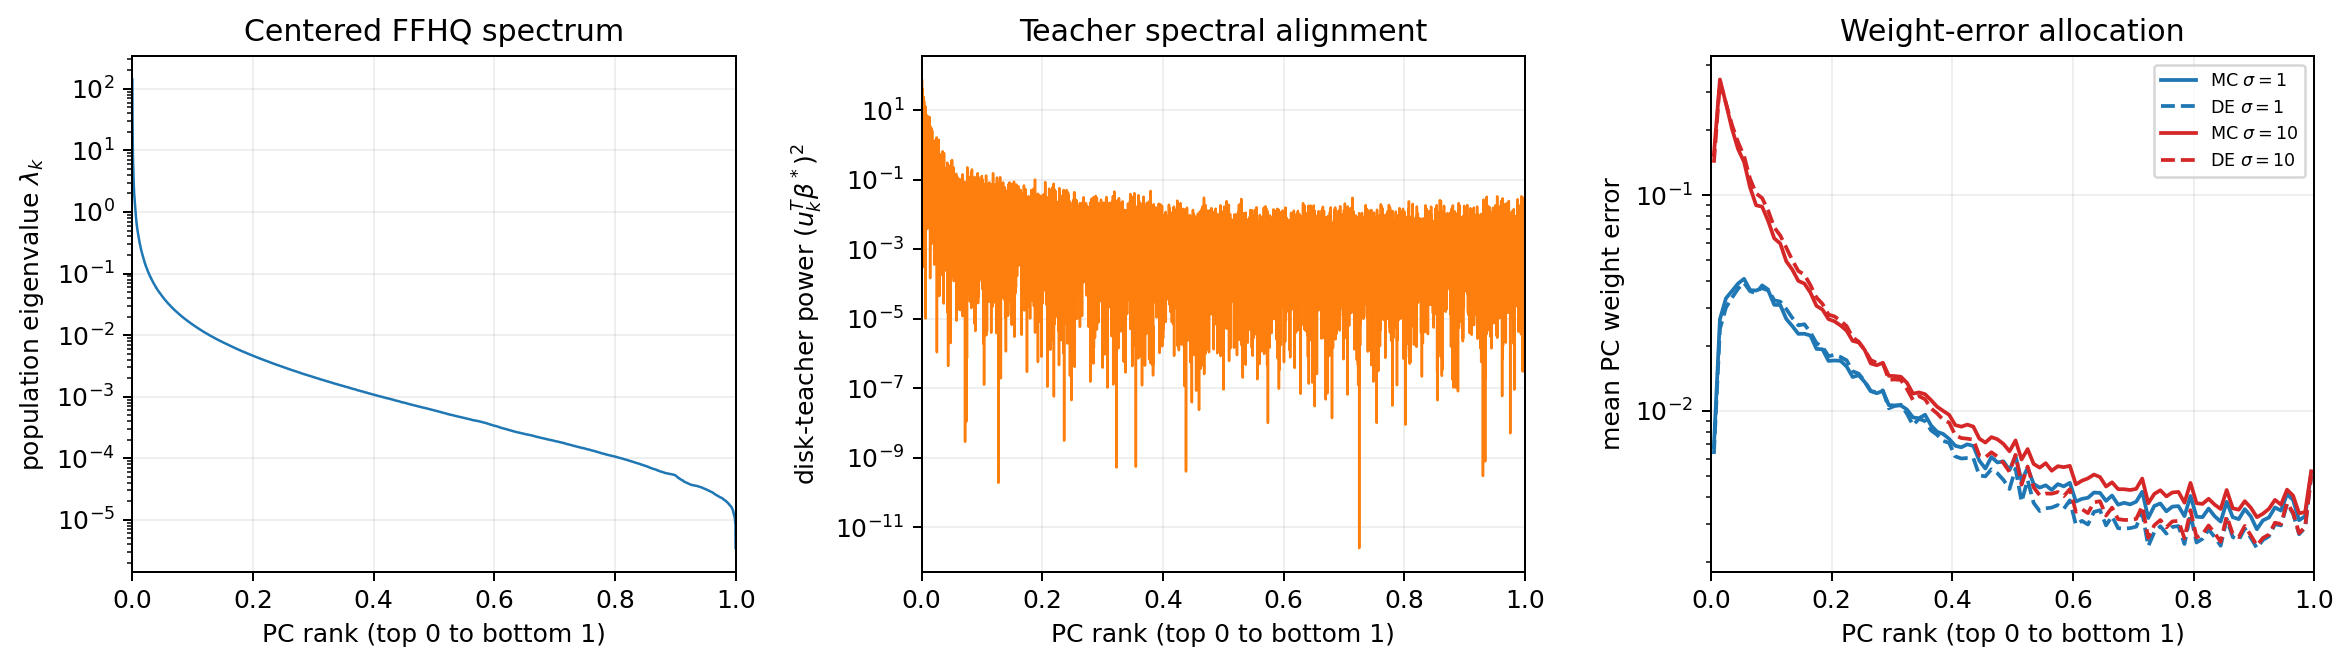
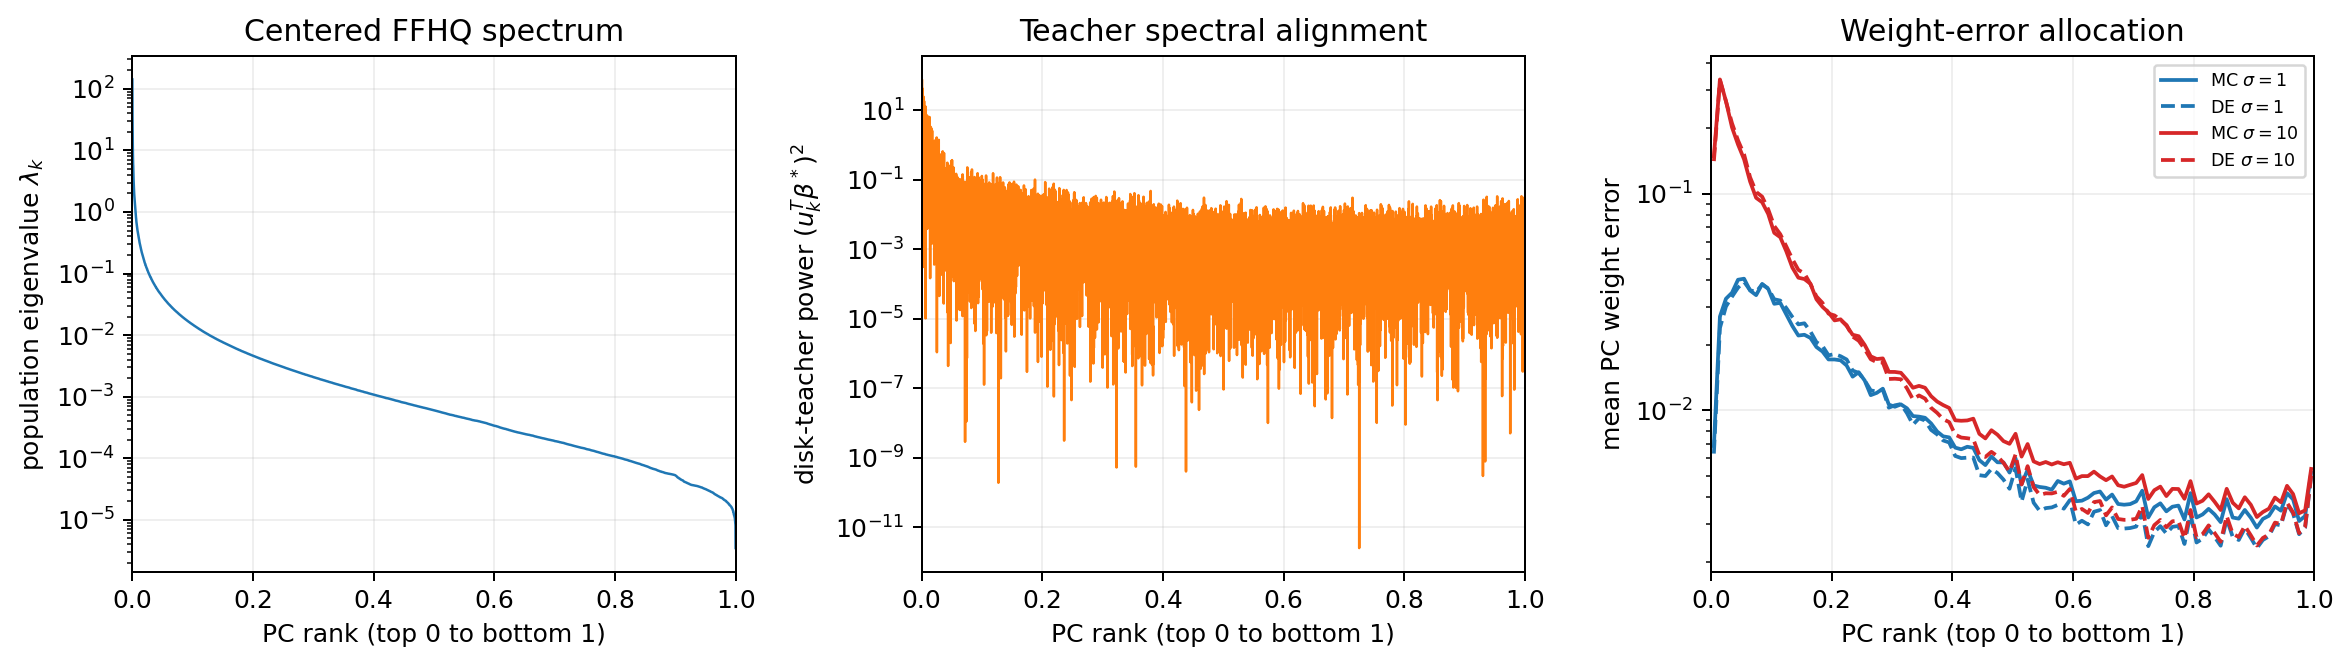
Densify FFHQ RidgeCV alpha sweep

Changed region(s): [[0.807, 0.5714, 0.9932, 0.812], [0.7449, 0.3008, 0.807, 0.5714], [0.6828, 0.2707, 0.7139, 0.3008]]

diff --git a/scripts/validate_ffhq_disk_teacher.py b/scripts/validate_ffhq_disk_teacher.py
@@ -6,7 +6,7 @@ This reproduces the natural-image linear-regression experiment from
 * 100 x 100 grayscale FFHQ images;
 * a binary radius-0.3 disk as the teacher weight;
 * a fitted intercept;
-* RidgeCV over scikit-learn alphas ``10**[-4, ..., 5]``.
+* RidgeCV over a dense log-spaced alpha grid from ``10**-4`` to ``10**5``.
 
 Scikit's objective uses ``X.T X + alpha I``. The RMT library uses
 ``X.T X + n lambda I``, so the final-refit conversion is ``lambda=alpha/n``.
@@ -391,7 +391,9 @@ def summarize_historical(
 def case_path(args: argparse.Namespace, sigma: float) -> Path:
     return CASE_DIR / (
         f'ffhq_disk_d{args.img_size ** 2}_n{args.n}_sigma{float_tag(sigma)}'
-        f'_trials{args.n_trials}_pop{args.population_size}_seed{args.seed}.npz')
+        f'_trials{args.n_trials}_pop{args.population_size}_seed{args.seed}'
+        f'_alpha{args.alpha_grid_size}_emin{float_tag(args.alpha_min_exp)}'
+        f'_emax{float_tag(args.alpha_max_exp)}.npz')
 
 
 def save_case(path: Path, row: dict[str, object], **arrays: np.ndarray) -> None:
@@ -579,8 +581,8 @@ def plot_gen_acc_comparison(rows: list[dict[str, object]]) -> None:
     ax.set_title('Weight recovery')
     ax.legend(fontsize=8)
 
-    # The decade-spaced CV grid creates visible phase transitions at high
-    # noise, so show the selected alpha beside the resulting metrics.
+    # Show the selected alpha beside the resulting metrics so any residual CV
+    # transitions remain visible even with the dense log-spaced grid.
     ax = axes[1]
     mc_alpha_median = np.asarray(
         [float(row['mc_alpha_cv_median']) for row in rows])
@@ -843,6 +845,13 @@ def parse_args() -> argparse.Namespace:
                              'a low-noise grid with NSR targets through 10.')
     parser.add_argument('--n-trials', type=int, default=100)
     parser.add_argument('--benchmark-trials', type=int, default=3)
+    parser.add_argument('--alpha-grid-size', type=int, default=181,
+                        help='Number of log-spaced RidgeCV alpha candidates. '
+                             'The default gives 20 intervals per decade.')
+    parser.add_argument('--alpha-min-exp', type=float, default=-4.0,
+                        help='Base-10 exponent of the smallest alpha.')
+    parser.add_argument('--alpha-max-exp', type=float, default=5.0,
+                        help='Base-10 exponent of the largest alpha.')
     parser.add_argument('--seed', type=int, default=20260814)
     parser.add_argument('--zip-path', type=Path, default=FFHQ_ZIP)
     parser.add_argument('--scratch-dir', type=Path,
@@ -850,6 +859,9 @@ def parse_args() -> argparse.Namespace:
     parser.add_argument('--force-spectrum', action='store_true')
     parser.add_argument('--force', action='store_true')
     parser.add_argument('--plot-only', action='store_true')
+    parser.add_argument('--benchmark-only', action='store_true',
+                        help='Run the exact-size timing probe and exit before '
+                             'any Monte Carlo cases are generated.')
     parser.add_argument('--no-progress', action='store_true')
     parser.add_argument('--log-file', type=Path, default=DEFAULT_LOG_PATH)
     return parser.parse_args()
@@ -857,6 +869,10 @@ def parse_args() -> argparse.Namespace:
 
 def main() -> None:
     args = parse_args()
+    if args.alpha_grid_size < 2:
+        raise ValueError('--alpha-grid-size must be at least 2')
+    if args.alpha_min_exp >= args.alpha_max_exp:
+        raise ValueError('--alpha-min-exp must be smaller than --alpha-max-exp')
     logger = configure_logger(args.log_file)
     if args.plot_only:
         rows = read_summary()
@@ -900,8 +916,14 @@ def main() -> None:
         np.asarray(staged[:args.train_pool_size], dtype=np.float32)).to(device)
     train_pool.div_(255.0)
     X_original = train_pool[:args.n]
-    alphas_np = np.logspace(-4, 5, 10)
+    alphas_np = np.logspace(
+        args.alpha_min_exp, args.alpha_max_exp, args.alpha_grid_size)
     alphas = torch.from_numpy(alphas_np.astype(np.float32)).to(device)
+    logger.info(
+        'RidgeCV alpha grid: %d log-spaced values from %.3g to %.3g '
+        '(adjacent ratio %.4f)',
+        len(alphas_np), alphas_np[0], alphas_np[-1],
+        alphas_np[1] / alphas_np[0])
 
     # Small-scale timing test using the exact n and d before the full loop.
     benchmark_generator = torch.Generator(device=device).manual_seed(args.seed)
@@ -921,6 +943,9 @@ def main() -> None:
         'Benchmark: %.4fs/trial; projected simulation %.1fs (%.1fmin) for %d cases x %d trials',
         seconds_per_trial, projected, projected / 60,
         len(args.sigmas), args.n_trials)
+    if args.benchmark_only:
+        logger.info('Benchmark-only run complete; no case or summary files written')
+        return
 
     rows: list[dict[str, object]] = []
     run_start = time.perf_counter()
@@ -984,6 +1009,9 @@ def main() -> None:
             'population_size': args.population_size,
             'n_trials': args.n_trials,
             'seed': args.seed,
+            'alpha_grid_size': args.alpha_grid_size,
+            'alpha_min_exp': args.alpha_min_exp,
+            'alpha_max_exp': args.alpha_max_exp,
             'case_path': str(cache),
             'mc_elapsed_seconds': elapsed,
             'noise_signal_ratio': sigma ** 2 / signal_power,

diff --git a/REPORT.md b/REPORT.md
@@ -600,6 +600,9 @@ grayscale FFHQ images (`d=10,000`), the binary radius-0.3 central disk as
 are under `AdvExampleLinearRegr/circ_mask_weights`. The downstream natural
 image accentuation code is in
 `Closed-loop-visual-insilico/scripts/accentuation_theory/exp2_accentuation.py`.
+The reproduction below replaces the original ten decade-spaced candidates
+with 181 log-spaced values over the same range (20 intervals per decade).
+DE and empirical LOOCV always select from this identical dense grid.
 
 Scikit-learn solves with `X.T X + alpha I`, whereas this repository uses
 `X.T X + n lambda I`; hence the final-fit conversion is
@@ -635,18 +638,17 @@ when the low-noise CV risk curve is flat.
 
 | sigma | alpha DE / MC median / saved inferred | squared weight error DE / MC / saved | accentuation error DE / MC / saved |
 |---:|---:|---:|---:|
-| 0.1 | 1e-4 / 1e-4 / 1e-3 | 69.9 / 69.7 / 67.5 | 0.00181 / 0.00272 / 0.00197 |
-| 1 | 1e-4 / 1e-4 / 1 | 101.0 / 105.0 / 98.8 | 15.7 / 20.6 / 14.4 |
-| 3 | 10 / 10 / 10 | 198.1 / 200.7 / 194.0 | 169.7 / 175.0 / 154.7 |
-| 10 | 100 / 100 / 100 | 269.6 / 267.1 / 270.5 | 234.3 / 220.0 / 252.4 |
+| 0.1 | 1e-4 / 1e-4 / 8.9e-4 | 69.9 / 69.0 / 67.5 | 0.00181 / 0.00295 / 0.00197 |
+| 1 | 1e-4 / 1e-4 / 1 | 101.0 / 104.7 / 98.8 | 15.7 / 20.0 / 14.4 |
+| 3 | 15.8 / 15.8 / 10 | 167.3 / 169.3 / 194.0 | 87.3 / 91.2 / 154.7 |
+| 10 | 100 / 100 / 100 | 269.6 / 273.1 / 270.5 | 234.3 / 249.3 / 252.4 |
 
-Across all six tested noise levels, DE matched the actual-CV median alpha on
-the candidate grid. Mean absolute relative gaps were 1.3% for squared weight
-error and 4.3% for natural-image generalization error. For accentuation error,
-the mean relative gap was 11.2% over `sigma>=1`; the largest gap there was 24%
-at `sigma=1`, where the selected-alpha distribution is broad and the nonlinear
-alignment ratio has appreciable finite-sample variance. At very low noise the
-relative accentuation gap looks large only because both errors are nearly zero.
+DE closely tracks the actual-CV median alpha on the dense candidate grid. At
+`sigma=3`, for example, both select 15.8 rather than being quantized to the
+original decade value 10. The fitted metrics remain close; residual gaps are
+largest for nonlinear accentuation quantities, whose finite-sample alignment
+ratio has appreciable variance. At very low noise relative accentuation gaps
+look large only because both errors are nearly zero.
 
 This gives a direct explanation of the visual result. Even at zero noise,
 `n=1,000` observations cannot identify all 10,000 raw pixels: the squared
@@ -664,8 +666,9 @@ See `figures/ffhq_disk_teacher_de_validation.png`,
 `figures/ffhq_disk_teacher_weights.png`, and
 `figures/ffhq_disk_teacher_eigenbasis.png`. Plot-ready results are in
 `tables/ffhq_disk_teacher_de_summary.csv`; reusable per-condition arrays are
-cached under `tables/ffhq_disk_teacher_cases/`. The processing log is
-`logs/ffhq_disk_teacher_de.log`.
+cached under `tables/ffhq_disk_teacher_cases/`. The default processing log is
+`logs/ffhq_disk_teacher_de.log`; the dense-grid run reported here is preserved
+in `logs/ffhq_disk_teacher_dense_alpha.log`.
 
 ### Computational audit
 
@@ -673,10 +676,12 @@ Loading separate PNG files was I/O-bound at about 16 images/s (roughly 12
 minutes for 12,000 images). Sequential reads from the contiguous FFHQ zip
 reached 251 images/s, staging 30,000 resized images to node-local scratch in
 119 seconds. Once staged, the H100 covariance and eigendecomposition took 1.2
-seconds and the 600 fitted trials took 9.1 seconds. Both the staged array and
-eigenvectors are cached on node-local scratch; compact spectrum, per-case
-numerical summaries, and plot-ready CSV are cached separately so figures can
-be restyled without recomputation.
+seconds. An exact-size 10-trial timing probe projected 2.5 minutes for the
+dense grid; the complete 2,600 fitted trials actually took about 40 seconds,
+and the full post-spectrum workload including figures took 50.4 seconds. Both
+the staged array and eigenvectors are cached on node-local scratch; compact
+spectrum, per-case numerical summaries, and plot-ready CSV are cached
+separately so figures can be restyled without recomputation.
 
 An implementation audit also found and fixed float32 cancellation in analytic
 LOOCV at very small alpha. Forming `(I-H)y` directly in the sample eigensystem,
@@ -686,29 +691,29 @@ compares this stable path with brute-force leave-one-out fits.
 
 ### High-noise extension
 
-The cached sweep now contains 26 noise levels and reaches exact population
+The cached dense-grid sweep contains 26 noise levels and reaches exact population
 noise/signal variance ratios `sigma²/S` of 0.1, 1, and 10, where
 `S=6778.3`. Every condition uses 100 actual natural-image RidgeCV fits. The
 comparison figure has synchronized axes: response-noise SD `sigma` below and
-noise/signal variance ratio above. It also shows the decade-spaced selected
-alpha, which explains the nonmonotone transitions in weight and accentuation
-metrics.
+noise/signal variance ratio above. Both DE and empirical LOOCV select from 181
+log-spaced alphas between `1e-4` and `1e5`; adjacent candidates differ by only
+1.122x.
 
 | sigma²/S | sigma | alpha DE / MC median [IQR] | R²_gen DE / MC | slope_acc DE / MC | R²_acc DE / MC mean (median) |
 |---:|---:|---:|---:|---:|---:|
-| 0.1 | 26.04 | 1000 / 100 [100,1000] | 0.980 / 0.980 | 1.103 / 0.675 | 0.991 / -1.164 (-2.344) |
-| 1 | 82.33 | 1000 / 1000 [1000,1000] | 0.944 / 0.943 | 0.501 / 0.501 | -0.011 / -0.017 (-0.007) |
-| 10 | 260.35 | 10000 / 10000 [10000,10000] | 0.803 / 0.798 | 0.832 / 0.811 | 0.947 / -4.966 (0.969) |
+| 0.1 | 26.04 | 355 / 336 [316,355] | 0.986 / 0.986 | 0.762 / 0.749 | 0.902 / 0.874 (0.896) |
+| 1 | 82.33 | 1585 / 1585 [1259,1778] | 0.947 / 0.946 | 0.706 / 0.685 | 0.822 / 0.654 (0.817) |
+| 10 | 260.35 | 7079 / 7079 [5623,7943] | 0.812 / 0.805 | 0.636 / 0.643 | 0.639 / 0.261 (0.612) |
 
-Generalization remains well predicted across this extreme range. Own-path R²
-requires more care. At ratio 0.1 the empirical CV argmin is split across two
-adjacent decade-grid penalties, while the leading DE chooses only one; this
-produces a large discrepancy. At ratio 10, the DE and mean slope remain close,
-and the DE is close to the median own-path R², but rare near-singular alignment
-ratios make the empirical *mean* R² strongly negative. Thus the first-order DE
-continues to predict typical calibration but no longer predicts the heavy-tail
-mean of the nonlinear own-path R². The plot includes both MC mean with standard
-error and MC median with IQR to make this distinction explicit.
+The dense grid removes the artificial decade-scale dip-and-recovery. Between
+`sigma=10` and 100, the largest adjacent change in selected alpha falls from
+10x to 1.58x; total variation of the empirical accentuation-R² curve falls from
+6.75 to 0.34, and total variation of squared weight error falls from 1591 to
+270. Generalization remains especially well predicted. Own-path R² still
+requires care at extreme noise: DE stays near the empirical median, while its
+nonlinear alignment ratio leaves the empirical mean lower and increasingly
+uncertain. The plot therefore retains both MC mean with standard error and MC
+median with IQR.
 
 ---
 

diff --git a/README.md b/README.md
@@ -86,6 +86,7 @@ python scripts/validate_powerlaw_teacher_alignment.py --plot-only
 # Reproduce the 100x100 FFHQ unit-disk teacher experiment on a CUDA GPU.
 # The default 26-point curve reaches noise/signal variance ratio 10; figures
 # show response-noise SD on the lower x-axis and variance ratio on the upper.
+# RidgeCV and DE share a 181-point log-alpha grid (20 intervals per decade).
 # The script benchmarks first, stages the image archive locally, and caches cases.
 python scripts/validate_ffhq_disk_teacher.py
 
